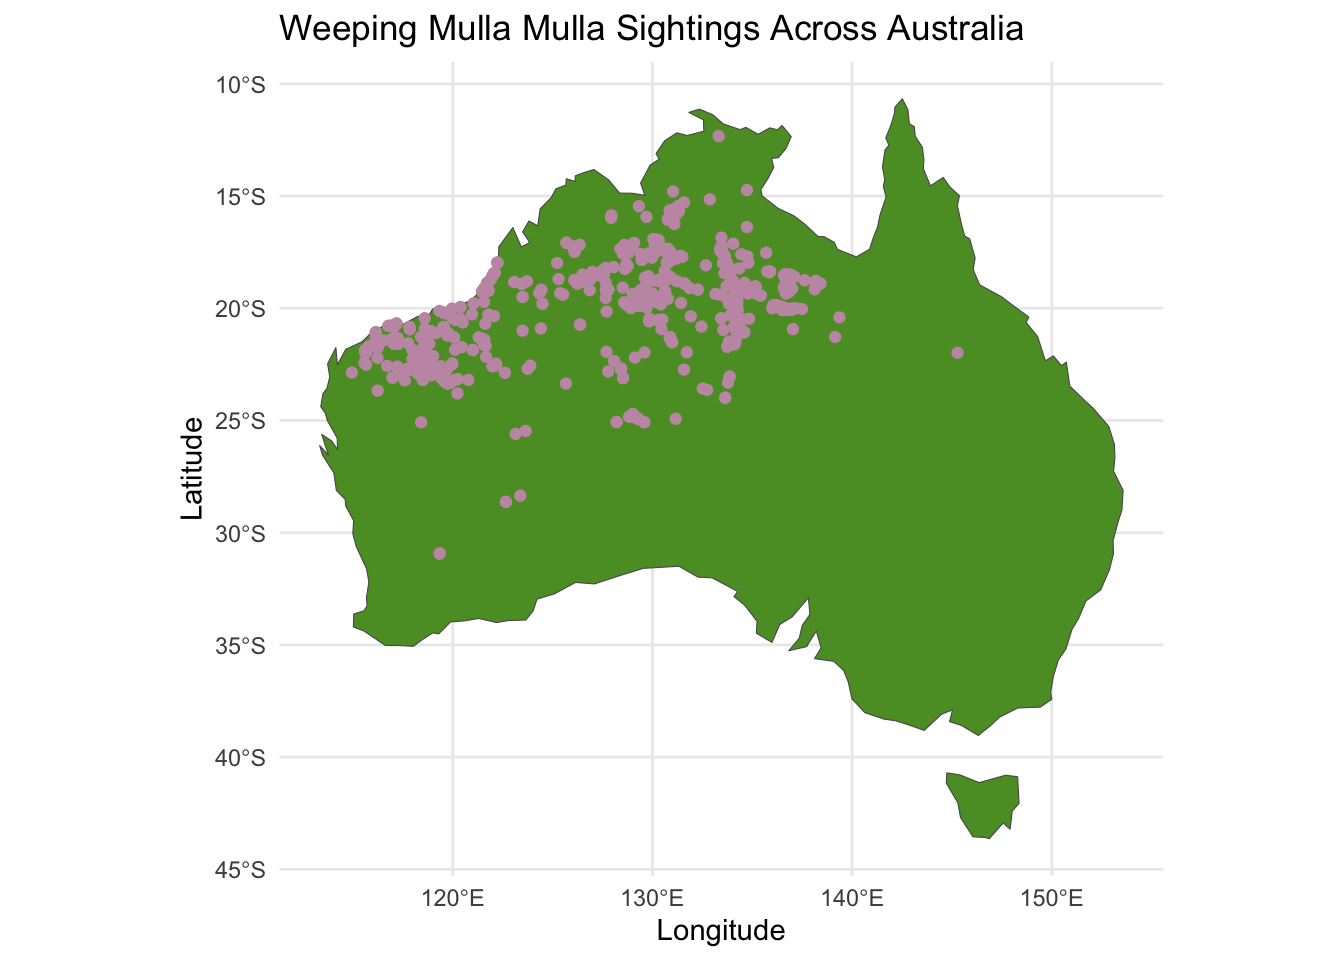
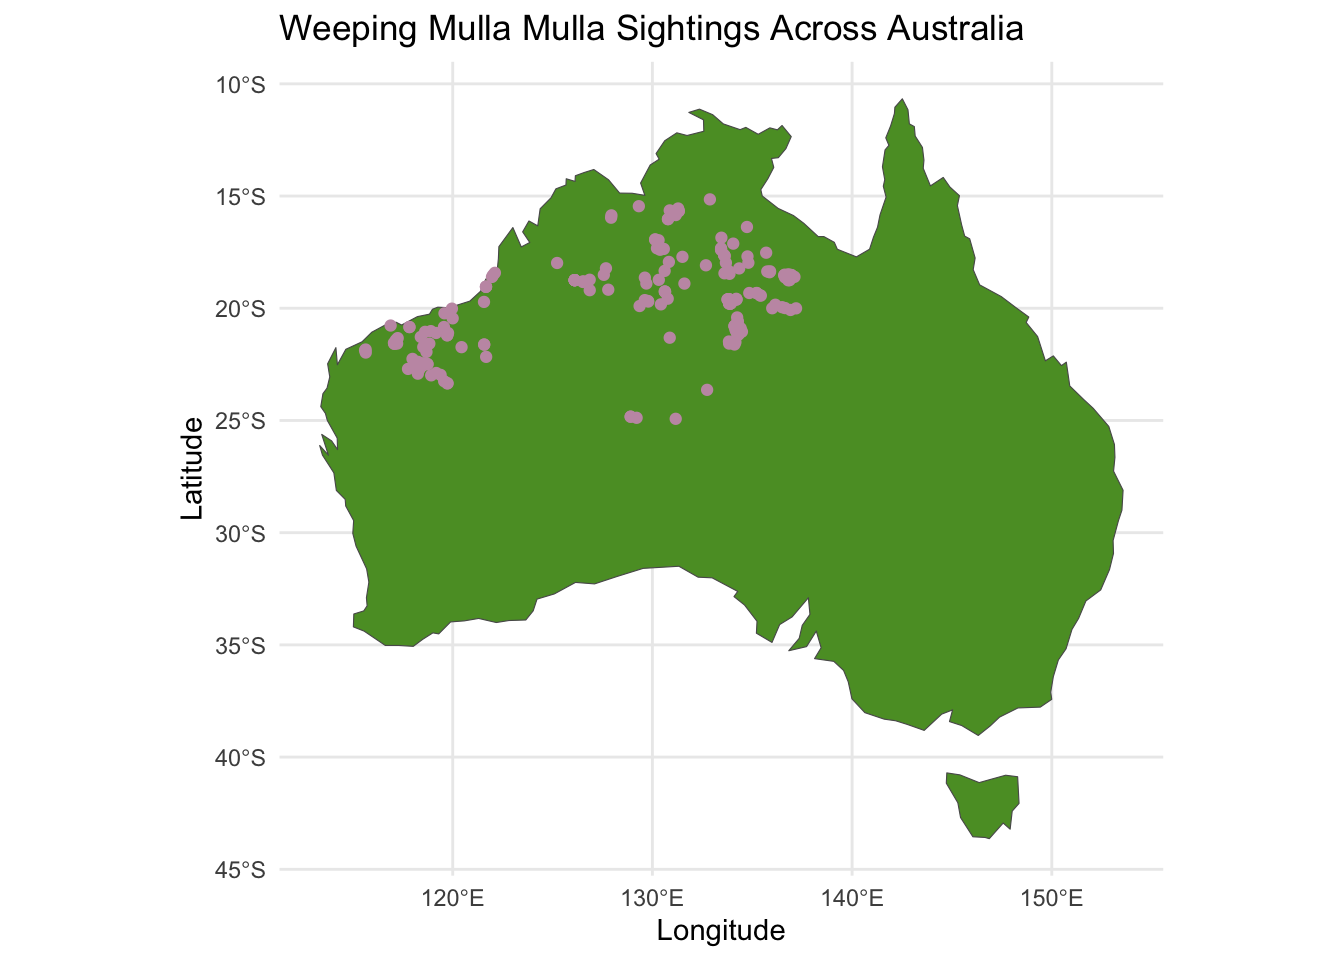
Updating code and dictionary

diff --git a/report.html b/report.html
@@ -118,12 +118,30 @@ pre > code.sourceCode > span > a:first-child::before { text-decoration: underlin
 <span id="cb1-5"><a href="#cb1-5" aria-hidden="true" tabindex="-1"></a><span class="fu">galah_config</span>(<span class="at">email =</span> <span class="st">"kngu0086@student.monash.edu"</span>,</span>
 <span id="cb1-6"><a href="#cb1-6" aria-hidden="true" tabindex="-1"></a>             <span class="at">download_reason_id =</span> <span class="dv">10</span>,</span>
 <span id="cb1-7"><a href="#cb1-7" aria-hidden="true" tabindex="-1"></a>             <span class="at">verbose =</span> <span class="cn">FALSE</span>)</span>
-<span id="cb1-8"><a href="#cb1-8" aria-hidden="true" tabindex="-1"></a>rawdata <span class="ot">&lt;-</span> <span class="fu">galah_call</span>() <span class="sc">%&gt;%</span> </span>
-<span id="cb1-9"><a href="#cb1-9" aria-hidden="true" tabindex="-1"></a>  <span class="fu">galah_identify</span>(<span class="st">"Ptilotus calostachyus"</span>)  <span class="sc">%&gt;%</span> </span>
-<span id="cb1-10"><a href="#cb1-10" aria-hidden="true" tabindex="-1"></a>  <span class="fu">atlas_occurrences</span>()</span>
-<span id="cb1-11"><a href="#cb1-11" aria-hidden="true" tabindex="-1"></a><span class="fu">save</span>(rawdata, <span class="at">file =</span> <span class="st">"data-raw/rawdata.rda"</span>)</span></code><button title="Copy to Clipboard" class="code-copy-button"><i class="bi"></i></button></pre></div>
+<span id="cb1-8"><a href="#cb1-8" aria-hidden="true" tabindex="-1"></a>rawdata <span class="ot">&lt;-</span> <span class="fu">galah_call</span>() <span class="sc">%&gt;%</span></span>
+<span id="cb1-9"><a href="#cb1-9" aria-hidden="true" tabindex="-1"></a>  <span class="fu">galah_identify</span>(<span class="st">"Weeping mulla mulla"</span>) <span class="sc">%&gt;%</span></span>
+<span id="cb1-10"><a href="#cb1-10" aria-hidden="true" tabindex="-1"></a>  <span class="fu">galah_select</span>(</span>
+<span id="cb1-11"><a href="#cb1-11" aria-hidden="true" tabindex="-1"></a>    basisOfRecord ,</span>
+<span id="cb1-12"><a href="#cb1-12" aria-hidden="true" tabindex="-1"></a>    decimalLatitude,</span>
+<span id="cb1-13"><a href="#cb1-13" aria-hidden="true" tabindex="-1"></a>    decimalLongitude,</span>
+<span id="cb1-14"><a href="#cb1-14" aria-hidden="true" tabindex="-1"></a>    eventDate,</span>
+<span id="cb1-15"><a href="#cb1-15" aria-hidden="true" tabindex="-1"></a>    scientificName,</span>
+<span id="cb1-16"><a href="#cb1-16" aria-hidden="true" tabindex="-1"></a>    taxonConceptID,</span>
+<span id="cb1-17"><a href="#cb1-17" aria-hidden="true" tabindex="-1"></a>    recordID,</span>
+<span id="cb1-18"><a href="#cb1-18" aria-hidden="true" tabindex="-1"></a>    dataResourceName,</span>
+<span id="cb1-19"><a href="#cb1-19" aria-hidden="true" tabindex="-1"></a>    eventRemarks,</span>
+<span id="cb1-20"><a href="#cb1-20" aria-hidden="true" tabindex="-1"></a>    eventTime,</span>
+<span id="cb1-21"><a href="#cb1-21" aria-hidden="true" tabindex="-1"></a>    eventID,</span>
+<span id="cb1-22"><a href="#cb1-22" aria-hidden="true" tabindex="-1"></a>    eventDate,</span>
+<span id="cb1-23"><a href="#cb1-23" aria-hidden="true" tabindex="-1"></a>    samplingEffort,</span>
+<span id="cb1-24"><a href="#cb1-24" aria-hidden="true" tabindex="-1"></a>    samplingProtocol,</span>
+<span id="cb1-25"><a href="#cb1-25" aria-hidden="true" tabindex="-1"></a>    <span class="at">group =</span> <span class="fu">c</span>(<span class="st">"basic"</span>, <span class="st">"event"</span>)</span>
+<span id="cb1-26"><a href="#cb1-26" aria-hidden="true" tabindex="-1"></a>  ) <span class="sc">%&gt;%</span></span>
+<span id="cb1-27"><a href="#cb1-27" aria-hidden="true" tabindex="-1"></a>  <span class="fu">atlas_occurrences</span>() <span class="sc">%&gt;%</span></span>
+<span id="cb1-28"><a href="#cb1-28" aria-hidden="true" tabindex="-1"></a>  <span class="fu">filter</span>(basisOfRecord <span class="sc">==</span> <span class="st">"HUMAN_OBSERVATION"</span>)</span>
+<span id="cb1-29"><a href="#cb1-29" aria-hidden="true" tabindex="-1"></a><span class="fu">save</span>(rawdata, <span class="at">file =</span> <span class="st">"data-raw/rawdata.rda"</span>)</span></code><button title="Copy to Clipboard" class="code-copy-button"><i class="bi"></i></button></pre></div>
 </div>
-<p>The data is sourced from the Atlas of Living Australia website, which aggregates multiple data sources and includes variables indicating location, date, time, scientific name, resource names, and species status. There are 955 observations and 8 variables in the raw data set.</p>
+<p>The data is sourced from the Atlas of Living Australia website, which aggregates multiple data sources and includes variables indicating location, date, time, scientific name, resource names, and species status. There are 356 observations and 14 variables in the raw data set.</p>
 <p>For our analysis, we will primarily utilise the location and event time data. However, a comprehensive dictionary is provided below:</p>
 <div class="cell">
 <div class="cell-output-display">
@@ -149,11 +167,11 @@ pre > code.sourceCode > span > a:first-child::before { text-decoration: underlin
 </tr>
 <tr class="even">
 <td style="text-align: left;">scientificName</td>
-<td style="text-align: left;">The scientific name of the species: Ptilotus Calostachyus.</td>
+<td style="text-align: left;">The scientific name of the observed species.</td>
 </tr>
 <tr class="odd">
 <td style="text-align: left;">taxonConceptID</td>
-<td style="text-align: left;">The taxonomy website ID: https://id.biodiversity.org.au/node/apni/2910906.</td>
+<td style="text-align: left;">The taxonomy website ID: <a href="https://id.biodiversity.org.au/node/apni/2910906">Ptilotus calostachyus</a>.</td>
 </tr>
 <tr class="even">
 <td style="text-align: left;">recordID</td>
@@ -161,11 +179,35 @@ pre > code.sourceCode > span > a:first-child::before { text-decoration: underlin
 </tr>
 <tr class="odd">
 <td style="text-align: left;">dataResourceName</td>
-<td style="text-align: left;">The data resource of the observation of the 23 <a href="https://bie.ala.org.au/species/https://id.biodiversity.org.au/node/apni/2910906#data-partners">data partners</a>.</td>
+<td style="text-align: left;">The data resource associated with the observation: <a href="https://bie.ala.org.au/species/https://id.biodiversity.org.au/node/apni/2910906#data-partners">List of 23 partners</a>.</td>
 </tr>
 <tr class="even">
 <td style="text-align: left;">occurrenceStatus</td>
 <td style="text-align: left;">The occurrence status: Present.</td>
+</tr>
+<tr class="odd">
+<td style="text-align: left;">eventRemarks</td>
+<td style="text-align: left;">Any additional remarks or comments related to the observation.</td>
+</tr>
+<tr class="even">
+<td style="text-align: left;">eventTime</td>
+<td style="text-align: left;">Time of the event recorded in the format hh:mm:ss, including the time zone difference.</td>
+</tr>
+<tr class="odd">
+<td style="text-align: left;">eventID</td>
+<td style="text-align: left;">The event ID of each obsercation.</td>
+</tr>
+<tr class="even">
+<td style="text-align: left;">samplingEffort</td>
+<td style="text-align: left;">A description of the effort or area that was surveyed or sampled to locate the species.</td>
+</tr>
+<tr class="odd">
+<td style="text-align: left;">samplingProtocol</td>
+<td style="text-align: left;">The protocol that was used to sample the species.</td>
+</tr>
+<tr class="even">
+<td style="text-align: left;">basisOfRecord</td>
+<td style="text-align: left;">Indicates how the record was made: Human observation.</td>
 </tr>
 </tbody>
 </table>
